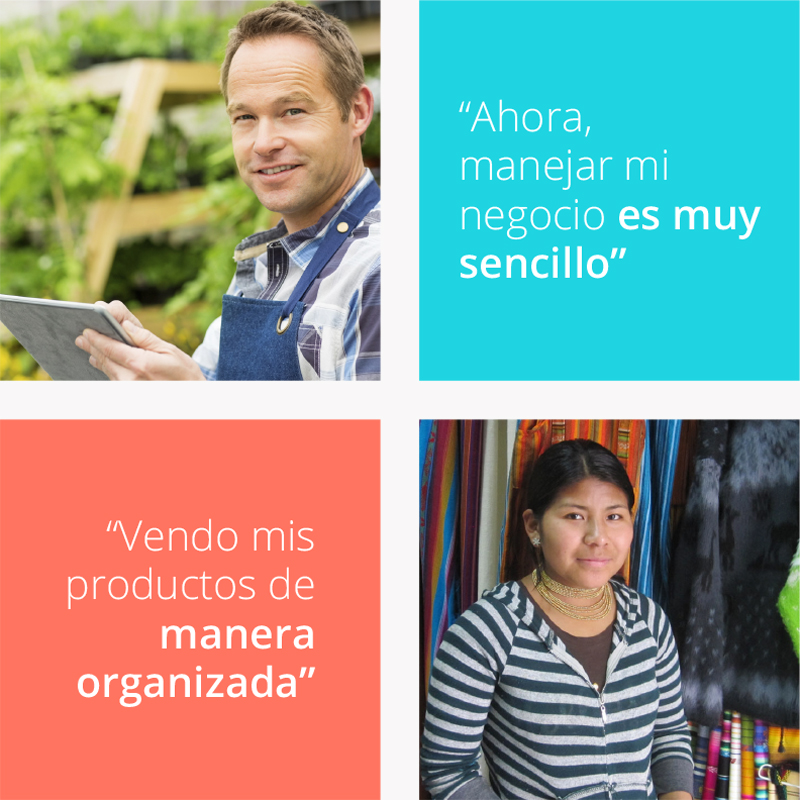
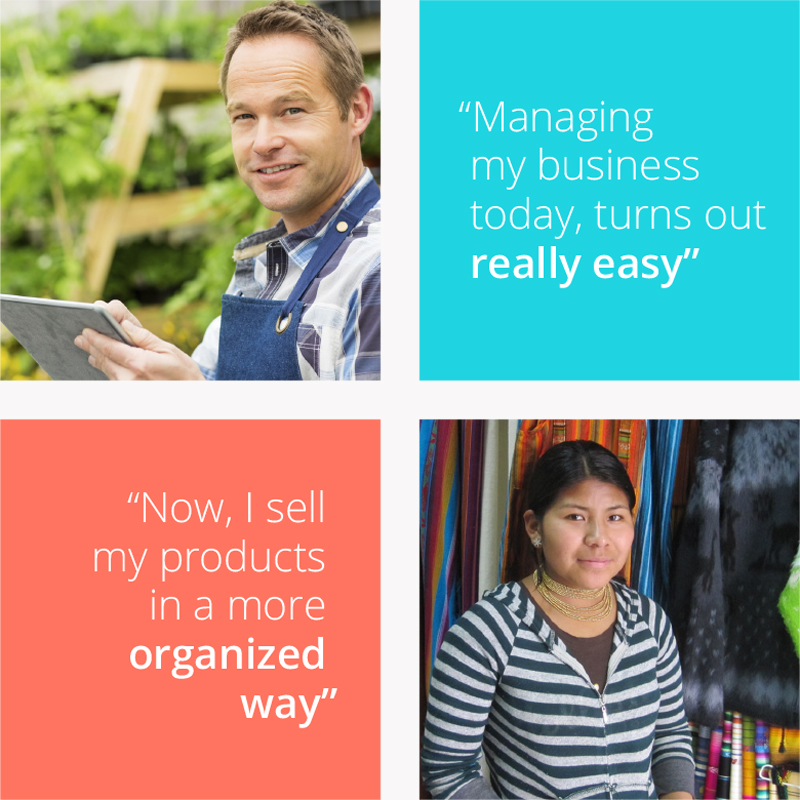
Testimonios traducido

diff --git a/public/en/index.html b/public/en/index.html
@@ -3,7 +3,7 @@
       <script src="https://oss.maxcdn.com/respond/1.4.2/respond.min.js"></script>
     <![endif]-->  <body> <!--[if lt IE 10]>
       <p class="browsehappy">You are using an <strong>outdated</strong> browser. Please <a href="http://browsehappy.com/">upgrade your browser</a> to improve your experience.</p>
-    <![endif]--> <div class="navbar navbar-default navbar-fixed-top nav-datil" role=navigation> <div class=container> <div class=navbar-header> <button type=button class="navbar-toggle collapsed" data-toggle=collapse data-target=.navbar-collapse> <span class=sr-only>Toggle navigation</span> <span class=icon-bar></span> <span class=icon-bar></span> <span class=icon-bar></span> </button> <img class=logo src=images/8d034bd5.logo.png alt=datil> </div> <div class="navbar-collapse collapse"> <ul class="nav navbar-nav navbar-right"> <li><a href="/">Español</a></li> <li><a href=#>Features</a></li> <li><a href=#>Compatibility</a></li> <li><a href=#>Contact</a></li> </ul> </div> </div> </div> <div class=jumbotron> <div class=container> <div class=row> <div class=col-md-5> </div> <div class="banner-text col-md-7"> <h1>Take your business</h1> <h1>to the next level</h1> <p>Dátil is a mPOS that fits your business model and helps you to increase productivity from the power of your fingers.</p> </div> </div> </div> </div> <div id=content class="container text-center servicios"> <div class=row> <div class="col-md-3 col-sm-6"> <img src=images/services/cb87c014.icono_factura.png alt=""> <h3><strong>Billing and invoice</strong> electronically</h3> <hr> <p>Make and send invoices to your customers emails without printing.</p> </div> <div class="col-md-3 col-sm-6"> <img src=images/services/bde19334.icono_dinero_electronico.png alt=""> <h3><strong>More posibilities</strong> for your clients</h3> <hr> <p>Bill with cash, credit card or e-money from your mobile phone.</p> </div> <div class="col-md-3 col-sm-6"> <img src=images/services/bc3fea18.icono_listas_productos.png alt=""> <h3><strong>Take control</strong> of your products</h3> <hr> <p>Organize all your items in lists with price and tax details.</p> </div> <div class="col-md-3 col-sm-6"> <img src=images/services/e55f7bde.icono_estadisticas.png alt=""> <h3><strong>Learn more</strong> about your business</h3> <hr> <p>Get statistics and valuable information about your sales, products and customers.</p> </div> </div> </div> <div id=datil-ventas class=details> <div class=container> <div class=row> <div class="col-md-5 col-sm-5 col-md-push-7 text-justify"> <h2>Make your sales <strong>in a easier way.</strong></h2> <p>The application enables you to execute any product sale in easy steps that take just a few taps with your finger.</p> <p>Choose your products from your list, they will be stored in the shopping cart and confirm the sale with your customer with a payment method and presto!</p> <hr> </div> <div class="col-md-7 col-sm-7 col-md-pull-5"> <img class="img-responsive center-block" src=images/4e180064.mano_app_cobro.png> </div> </div> </div> </div> <div id=datil-facturas class="container details"> <div class=row> <div class="col-md-5 col-sm-5 text-justify"> <h2>Manage your invoices <strong>like never before</strong></h2> <p>DATIL has a electronic invoice system for a integral experience for your clients at shopping time.</p> <p>They will be receive your invoices via email in a secure way and complying with the 'Servicio de Rentas Internas' requirements.</p> <hr> </div> <div class="col-md-7 col-sm-7"> <img class="img-responsive center-block" src=images/7834dd3d.factura_mail.png> </div> </div> </div> <div id=datil-clientes class=details> <div class=container> <div class=row> <div class="col-md-5 col-sm-5 col-md-push-7 text-justify"> <h2>More posibilities <strong>for your clients.</strong></h2> <p>Give your clients more alternatives at the payment process and they will have a lovely shopping experience. The platform allows you to make and register cash or credit card payments.</p> <p>Futhermore, we provide the new system for e-money payments powered by 'The Central Bank of Ecuador', a secure, easy-to-use and market-cheap payment method. Thus, your clients will have a bunch of payment options at shopping time.</p> <hr> </div> <div class="col-md-7 col-sm-7 col-md-pull-5"> <img class="img-responsive center-block" src=images/6aaef33c.clientes.png> </div> </div> </div> </div> <div id=datil-productos class="container details"> <div class=row> <div class="col-md-5 col-sm-5 text-justify"> <h2>Take total control <strong>of your products.</strong></h2> <p>Create an organized and detailed list of all your products to manage your business more easily and order.</p> <p>Add articles with name, color, price and a photo, then they will be quickly identified when you are making a sale.</p> <hr> </div> <div class="col-md-7 col-sm-7"> <img class="img-responsive center-block" src=images/51d9e543.pantalla_listas.png> </div> </div> </div> <div id=datil-clientes class="jumbotron hidden-xs"> <img class=img-responsive src=images/4b77f6f9.banner_cliente.jpg alt=""> </div> <div id=datil-smartphone class=details> <div class=container> <div class=row> <div class="col-md-5 col-sm-5 col-md-push-7 text-justify"> <h2>DATIL in my <strong>smartphone.</strong></h2> <p>Even the simpler smartphone has the posibility DATIL without any inconvenience.</p> <p>The application is developed to work in Android phones and coming soon to iOS and tablets.</p> <hr> </div> <div class="col-md-7 col-sm-7 col-md-pull-5"> <img class="img-responsive center-block" src=images/71fc4778.phone_compatibility.png> </div> </div> </div> </div> <div id=acerca> <div class="container text-center"> <div class="info center-block"> <h2>DATIL Experience</h2> <img src=images/40c06549.cuadros_testimonios.jpg alt="" class="img-responsive center-block"> </div> </div> </div> <div id=equipo> <div class="container text-center"> <h2>Meet the team behind DATIL</h2> <div class="row center-block people"> <div class="col-md-2 col-sm-2"></div> <div class="col-md-2 col-sm-2"> <img src=images/team/7e513cf5.Eduardo.jpg class="img-responsive center-block"> <h5>Eduardo Raad</h5> <h6>CEO</h6> </div> <div class="col-md-2 col-sm-2"> <img src=images/team/5584efde.Chalo.jpg class="img-responsive center-block"> <h5>Carlos Pareja</h5> <h6>COO</h6> </div> <div class="col-md-2 col-sm-2"> <img src=images/team/42431744.Juan_Antonio.jpg class="img-responsive center-block"> <h5>Juan Antonio Plaza</h5> <h6>CTO</h6> </div> <div class="col-md-2 col-sm-2"> <img src=images/team/e9e31a52.Andres.jpg class="img-responsive center-block"> <h5>Andrés Mesías</h5> <h6>CCO</h6> </div> <div class="col-md-2 col-sm-2"></div> </div> <div class="row center-block people"> <div class="col-md-1 col-sm-1"></div> <div class="col-md-2 col-sm-2"> <img src=images/team/b2af7d69.Melissa.jpg class="img-responsive center-block"> <h5>Melissa Castro</h5> <h6>Project Manager</h6> </div> <div class="col-md-2 col-sm-2"> <img src=images/team/a258e5b0.July.jpg class="img-responsive center-block"> <h5>Juliana Toala</h5> <h6>Operation Manager</h6> </div> <div class="col-md-2 col-sm-2"> <img src=images/team/d8900463.Alejo.jpg class="img-responsive center-block"> <h5>Alejandro Vinueza</h5> <h6>Software Engineer</h6> </div> <div class="col-md-2 col-sm-2"> <img src=images/team/2a54d757.Joseph.jpg class="img-responsive center-block"> <h5>Joseph León</h5> <h6>Software Engineer</h6> </div> <div class="col-md-2 col-sm-2"> <img src=images/team/d4b952ce.Carlos.jpg class="img-responsive center-block"> <h5>Carlos Minda</h5> <h6>Infrastructure Engineer</h6> </div> <div class="col-md-1 col-sm-1"></div> </div> <div class="row center-block about-datil"> <div class="col-md-6 col-sm-6"> <img src=images/809ac364.logo-footer.png class=img-responsive> </div> <div class="col-md-6 col-sm-6 text-justify"> <p>We are an ecuadorian company committed to the growth of the micro, small and medium enterprises by facilitating access to new payment methods and management tools.</p> </div> </div> <hr> </div> </div> <!-- Begin MailChimp Signup Form --> <div id=mc_embed_signup class=container> <div class="row text-center"> <h3>Do you want to know more? Subscribe to our newsletter</h3> <h4>Don't worry, we won't send you spam!</h4> </div> <form action="//datil.us9.list-manage.com/subscribe/post?u=d97a77d468b8fc15e17172ae8&amp;id=a079067140" method=post id=mc-embedded-subscribe-form name=mc-embedded-subscribe-form class=validate target=_blank role=form novalidate> <div id=mc_embed_signup_scroll class="row form-group"> <div class="mc-field-group col-md-12 text-center"> <label for=mce-EMAIL>Email Address </label> <input type=email name=EMAIL class="required email" id=mce-EMAIL> <input type=submit value=Subscribe name=subscribe id=mc-embedded-subscribe class="button btn btn-datil"> </div> <div id=mce-responses class=clear> <div class=response id=mce-error-response style=display:none></div> <div class=response id=mce-success-response style=display:none></div> </div> <!-- real people should not fill this in and expect good things - do not remove this or risk form bot signups--> <div style="position: absolute; left: -5000px"><input name=b_d97a77d468b8fc15e17172ae8_a079067140 tabindex=-1></div> <div class=clear></div> </div> </form> </div> <!--End mc_embed_signup--> <footer> <div class=container> <div class=row> <div class="col-md-12 center-block text-center"> <h4>Contact</h4> <hr> </div> </div> <div class=row> <div class=col-md-6> <p>+593 - 4 - 6029400</p> <p>Víctor Emilio Estrada 112 y Circunvalación</p> <p>Norte, Edificio C3, Piso 2</p> <p><strong>Guayaquil - Ecuador</strong></p> </div> <div class="col-md-6 text-right"> <a href=#><img src=images/06131002.twitter-datil.png></a> <a href=#><img src=images/d4f3fe2a.facebook-datil.png></a> <p>2014 DATIL</p> </div> </div> </div> </footer> <script src=scripts/db02b173.vendor.js></script> <!-- Google Analytics: change UA-XXXXX-X to be your site's ID. --> <script>(function(b,o,i,l,e,r){b.GoogleAnalyticsObject=l;b[l]||(b[l]=
+    <![endif]--> <div class="navbar navbar-default navbar-fixed-top nav-datil" role=navigation> <div class=container> <div class=navbar-header> <button type=button class="navbar-toggle collapsed" data-toggle=collapse data-target=.navbar-collapse> <span class=sr-only>Toggle navigation</span> <span class=icon-bar></span> <span class=icon-bar></span> <span class=icon-bar></span> </button> <img class=logo src=images/8d034bd5.logo.png alt=datil> </div> <div class="navbar-collapse collapse"> <ul class="nav navbar-nav navbar-right"> <li><a href="/">Español</a></li> <li><a href=#>Features</a></li> <li><a href=#>Compatibility</a></li> <li><a href=#>Contact</a></li> </ul> </div> </div> </div> <div class=jumbotron> <div class=container> <div class=row> <div class=col-md-5> </div> <div class="banner-text col-md-7"> <h1>Take your business</h1> <h1>to the next level</h1> <p>Dátil is a mobile point of sale that fits your business model and helps you to increase productivity from the power of your fingers.</p> </div> </div> </div> </div> <div id=content class="container text-center servicios"> <div class=row> <div class="col-md-3 col-sm-6"> <img src=images/services/cb87c014.icono_factura.png alt=""> <h3><strong>Billing and invoice</strong> electronically</h3> <hr> <p>Make and send invoices to your customers emails without printing.</p> </div> <div class="col-md-3 col-sm-6"> <img src=images/services/bde19334.icono_dinero_electronico.png alt=""> <h3><strong>More possibilities</strong> for your clients</h3> <hr> <p>Bill with cash, credit card or e-money from your mobile phone.</p> </div> <div class="col-md-3 col-sm-6"> <img src=images/services/bc3fea18.icono_listas_productos.png alt=""> <h3><strong>Take control</strong> of your products</h3> <hr> <p>Organize all your items in lists with price and tax details.</p> </div> <div class="col-md-3 col-sm-6"> <img src=images/services/e55f7bde.icono_estadisticas.png alt=""> <h3><strong>Learn more</strong> about your business</h3> <hr> <p>Get statistics and valuable information about your sales, products and customers.</p> </div> </div> </div> <div id=datil-ventas class=details> <div class=container> <div class=row> <div class="col-md-5 col-sm-5 col-md-push-7 text-justify"> <h2>Make your sales <strong>in a easier way.</strong></h2> <p>The application enables you to execute any product sale in easy steps that take just a few taps with your finger.</p> <p>Choose your products from your list, they will be stored in the shopping cart and confirm the sale with your customer with a payment method and presto!</p> <hr> </div> <div class="col-md-7 col-sm-7 col-md-pull-5"> <img class="img-responsive center-block" src=images/4e180064.mano_app_cobro.png> </div> </div> </div> </div> <div id=datil-facturas class="container details"> <div class=row> <div class="col-md-5 col-sm-5 text-justify"> <h2>Manage your invoices <strong>like never before</strong></h2> <p>DATIL has a electronic invoice system for a integral experience for your clients at shopping time.</p> <p>They will receive your invoices via email in a secure way and complying with the 'Servicio de Rentas Internas' requirements.</p> <hr> </div> <div class="col-md-7 col-sm-7"> <img class="img-responsive center-block" src=images/7834dd3d.factura_mail.png> </div> </div> </div> <div id=datil-clientes class=details> <div class=container> <div class=row> <div class="col-md-5 col-sm-5 col-md-push-7 text-justify"> <h2>More posibilities <strong>for your clients.</strong></h2> <p>Give your clients more alternatives at the payment process and they will have a lovely shopping experience. The platform allows you to make and register cash or credit card payments.</p> <p>Futhermore, we provide the new system for e-money payments powered by 'The Central Bank of Ecuador', a secure, easy-to-use and market-cheap payment method. Thus, your clients will have a bunch of payment options at shopping time.</p> <hr> </div> <div class="col-md-7 col-sm-7 col-md-pull-5"> <img class="img-responsive center-block" src=images/6aaef33c.clientes.png> </div> </div> </div> </div> <div id=datil-productos class="container details"> <div class=row> <div class="col-md-5 col-sm-5 text-justify"> <h2>Take total control <strong>of your products.</strong></h2> <p>Create an organized and detailed list of all your products to manage your business more easily and order.</p> <p>Add articles with name, color, price and a photo, then they will be quickly identified when you are making a sale.</p> <hr> </div> <div class="col-md-7 col-sm-7"> <img class="img-responsive center-block" src=images/51d9e543.pantalla_listas.png> </div> </div> </div> <div id=datil-clientes class="jumbotron hidden-xs"> <img class=img-responsive src=images/4b77f6f9.banner_cliente.jpg alt=""> </div> <div id=datil-smartphone class=details> <div class=container> <div class=row> <div class="col-md-5 col-sm-5 col-md-push-7 text-justify"> <h2>DATIL in my <strong>smartphone.</strong></h2> <p>Even the simpler smartphone has the posibility DATIL without any inconvenience.</p> <p>The application is developed to work in Android phones and coming soon to iOS and tablets.</p> <hr> </div> <div class="col-md-7 col-sm-7 col-md-pull-5"> <img class="img-responsive center-block" src=images/71fc4778.phone_compatibility.png> </div> </div> </div> </div> <div id=acerca> <div class="container text-center"> <div class="info center-block"> <h2>DATIL Experience</h2> <img src=images/64bba164.cuadros_testimonios.jpg alt="" class="img-responsive center-block"> </div> </div> </div> <div id=equipo> <div class="container text-center"> <h2>Meet the team behind DATIL</h2> <div class="row center-block people"> <div class="col-md-2 col-sm-2"></div> <div class="col-md-2 col-sm-2"> <img src=images/team/7e513cf5.Eduardo.jpg class="img-responsive center-block"> <h5>Eduardo Raad</h5> <h6>CEO</h6> </div> <div class="col-md-2 col-sm-2"> <img src=images/team/5584efde.Chalo.jpg class="img-responsive center-block"> <h5>Carlos Pareja</h5> <h6>COO</h6> </div> <div class="col-md-2 col-sm-2"> <img src=images/team/42431744.Juan_Antonio.jpg class="img-responsive center-block"> <h5>Juan Antonio Plaza</h5> <h6>CTO</h6> </div> <div class="col-md-2 col-sm-2"> <img src=images/team/e9e31a52.Andres.jpg class="img-responsive center-block"> <h5>Andrés Mesías</h5> <h6>CCO</h6> </div> <div class="col-md-2 col-sm-2"></div> </div> <div class="row center-block people"> <div class="col-md-1 col-sm-1"></div> <div class="col-md-2 col-sm-2"> <img src=images/team/b2af7d69.Melissa.jpg class="img-responsive center-block"> <h5>Melissa Castro</h5> <h6>Project Manager</h6> </div> <div class="col-md-2 col-sm-2"> <img src=images/team/a258e5b0.July.jpg class="img-responsive center-block"> <h5>Juliana Toala</h5> <h6>Operation Manager</h6> </div> <div class="col-md-2 col-sm-2"> <img src=images/team/d8900463.Alejo.jpg class="img-responsive center-block"> <h5>Alejandro Vinueza</h5> <h6>Software Engineer</h6> </div> <div class="col-md-2 col-sm-2"> <img src=images/team/2a54d757.Joseph.jpg class="img-responsive center-block"> <h5>Joseph León</h5> <h6>Software Engineer</h6> </div> <div class="col-md-2 col-sm-2"> <img src=images/team/d4b952ce.Carlos.jpg class="img-responsive center-block"> <h5>Carlos Minda</h5> <h6>Infrastructure Engineer</h6> </div> <div class="col-md-1 col-sm-1"></div> </div> <div class="row center-block about-datil"> <div class="col-md-6 col-sm-6"> <img src=images/809ac364.logo-footer.png class=img-responsive> </div> <div class="col-md-6 col-sm-6 text-justify"> <p>We are an ecuadorian company committed to the growth of the micro, small and medium enterprises by facilitating access to new payment methods and management tools.</p> </div> </div> <hr> </div> </div> <!-- Begin MailChimp Signup Form --> <div id=mc_embed_signup class=container> <div class="row text-center"> <h3>Do you want to know more? Subscribe to our newsletter</h3> <h4>Don't worry, we won't send you spam!</h4> </div> <form action="//datil.us9.list-manage.com/subscribe/post?u=d97a77d468b8fc15e17172ae8&amp;id=a079067140" method=post id=mc-embedded-subscribe-form name=mc-embedded-subscribe-form class=validate target=_blank role=form novalidate> <div id=mc_embed_signup_scroll class="row form-group"> <div class="mc-field-group col-md-12 text-center"> <label for=mce-EMAIL>Email Address </label> <input type=email name=EMAIL class="required email" id=mce-EMAIL> <input type=submit value=Subscribe name=subscribe id=mc-embedded-subscribe class="button btn btn-datil"> </div> <div id=mce-responses class=clear> <div class=response id=mce-error-response style=display:none></div> <div class=response id=mce-success-response style=display:none></div> </div> <!-- real people should not fill this in and expect good things - do not remove this or risk form bot signups--> <div style="position: absolute; left: -5000px"><input name=b_d97a77d468b8fc15e17172ae8_a079067140 tabindex=-1></div> <div class=clear></div> </div> </form> </div> <!--End mc_embed_signup--> <footer> <div class=container> <div class=row> <div class="col-md-12 center-block text-center"> <h4>Contact</h4> <hr> </div> </div> <div class=row> <div class=col-md-6> <p>+593 - 4 - 6029400</p> <p>Víctor Emilio Estrada 112 y Circunvalación</p> <p>Norte, Edificio C3, Piso 2</p> <p><strong>Guayaquil - Ecuador</strong></p> </div> <div class="col-md-6 text-right"> <a href=#><img src=images/06131002.twitter-datil.png></a> <a href=#><img src=images/d4f3fe2a.facebook-datil.png></a> <p>2014 DATIL</p> </div> </div> </div> </footer> <script src=scripts/db02b173.vendor.js></script> <!-- Google Analytics: change UA-XXXXX-X to be your site's ID. --> <script>(function(b,o,i,l,e,r){b.GoogleAnalyticsObject=l;b[l]||(b[l]=
       function(){(b[l].q=b[l].q||[]).push(arguments)});b[l].l=+new Date;
       e=o.createElement(i);r=o.getElementsByTagName(i)[0];
       e.src='//www.google-analytics.com/analytics.js';

diff --git a/en/app/index.html b/en/app/index.html
@@ -75,7 +75,7 @@
            <div class="banner-text col-md-7">
               <h1>Take your business</h1>
               <h1>to the next level</h1>
-              <p>Dátil is a mPOS that fits your business model and helps you to increase productivity from the power of your fingers.</p> 
+              <p>Dátil is a mobile point of sale that fits your business model and helps you to increase productivity from the power of your fingers.</p> 
            </div>
         </div>
         
@@ -92,7 +92,7 @@
         </div>
         <div class="col-md-3 col-sm-6">
           <img src="images/services/icono_dinero_electronico.png" alt="">
-          <h3><strong>More posibilities</strong> for your clients</h3>
+          <h3><strong>More possibilities</strong> for your clients</h3>
           <hr>
           <p>Bill with cash, credit card or e-money from your mobile phone.</p>
         </div>
@@ -133,7 +133,7 @@
         <div class="col-md-5 col-sm-5 text-justify">
           <h2>Manage your invoices <strong>like never before</strong></h2>
           <p>DATIL has a electronic invoice system for a integral experience for your clients at shopping time.</p>
-          <p>They will be receive your invoices via email in a secure way and complying with the 'Servicio de Rentas Internas' requirements.</p>
+          <p>They will receive your invoices via email in a secure way and complying with the 'Servicio de Rentas Internas' requirements.</p>
           <hr>
       
         </div>
@@ -147,7 +147,7 @@
     <div class="container">
       <div class="row">
         <div class="col-md-5 col-sm-5 col-md-push-7 text-justify">
-          <h2>More posibilities <strong>for your clients.</strong></h2>
+          <h2>More possibilities <strong>for your clients.</strong></h2>
           <p>Give your clients more alternatives at the payment process and they will have a lovely shopping experience. The platform allows you to make and register cash or credit card payments.</p>
           <p>Futhermore, we provide the new system for e-money payments powered by 'The Central Bank of Ecuador', a secure, easy-to-use and market-cheap payment method. Thus, your clients will have a bunch of payment options at shopping time.</p>
           <hr>
@@ -183,7 +183,7 @@
       <div class="row">
         <div class="col-md-5 col-sm-5 col-md-push-7 text-justify">
           <h2>DATIL in my <strong>smartphone.</strong></h2>
-          <p>Even the simpler smartphone has the posibility DATIL without any inconvenience.</p>
+          <p>Even the simpler smartphone has the possibility DATIL without any inconvenience.</p>
           <p>The application is developed to work in Android phones and coming soon to iOS and tablets.</p>
           <hr>
         </div>

diff --git a/en/app/styles/main.less b/en/app/styles/main.less
@@ -101,6 +101,7 @@ body {
     background-color: darken(@color-datil, 5%);
   }
 }
+
 .btn-datil-inverse{
   color: #999 !important;
   font-weight: lighter;
